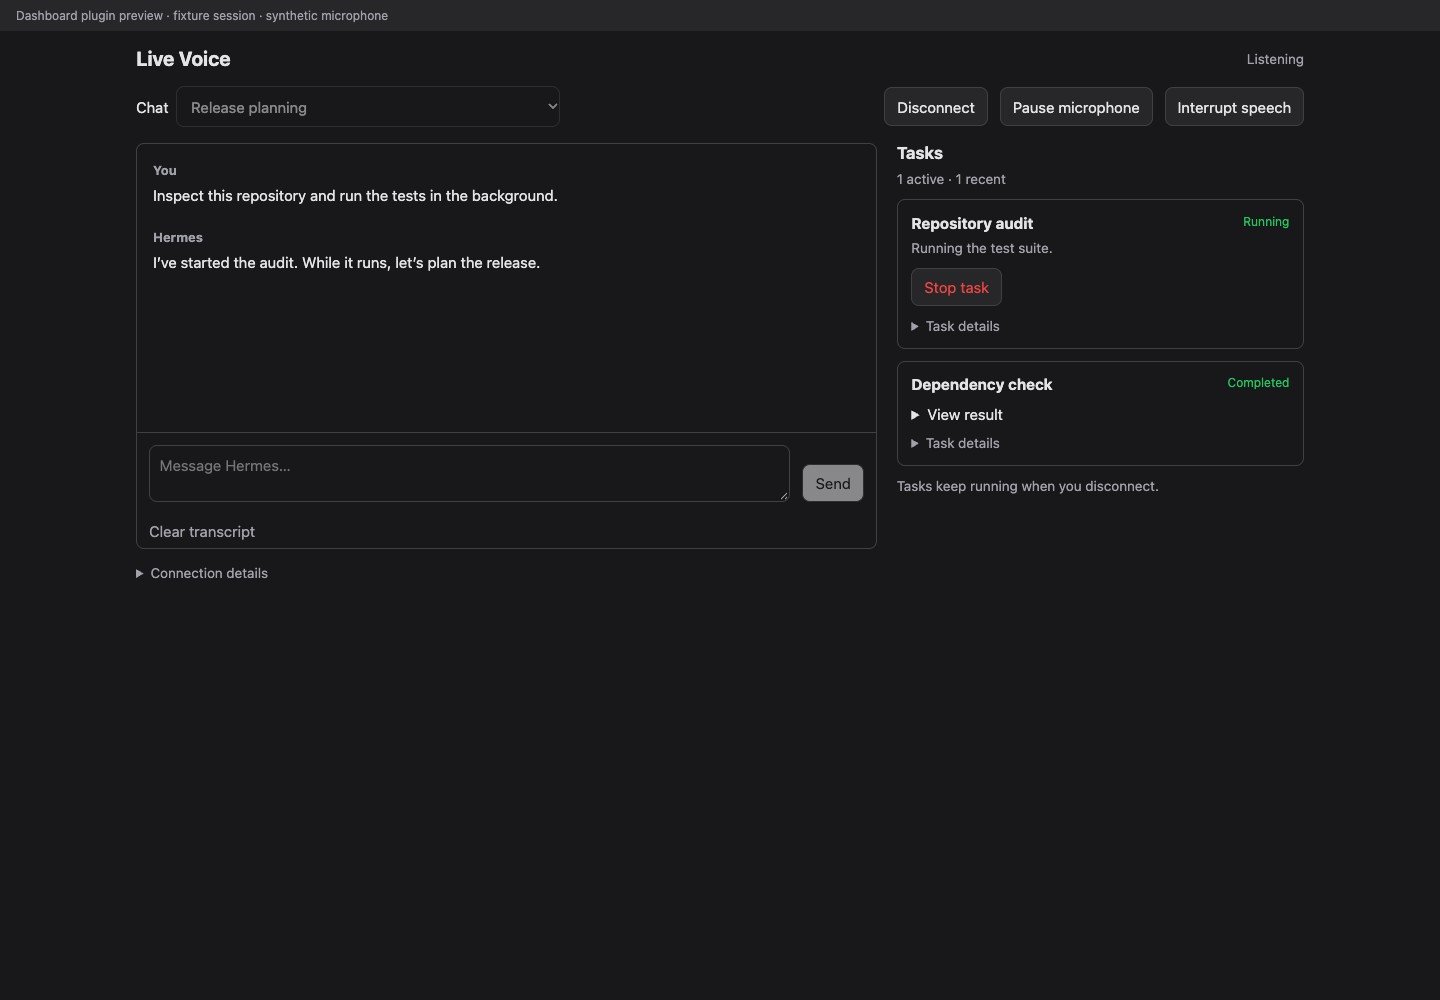
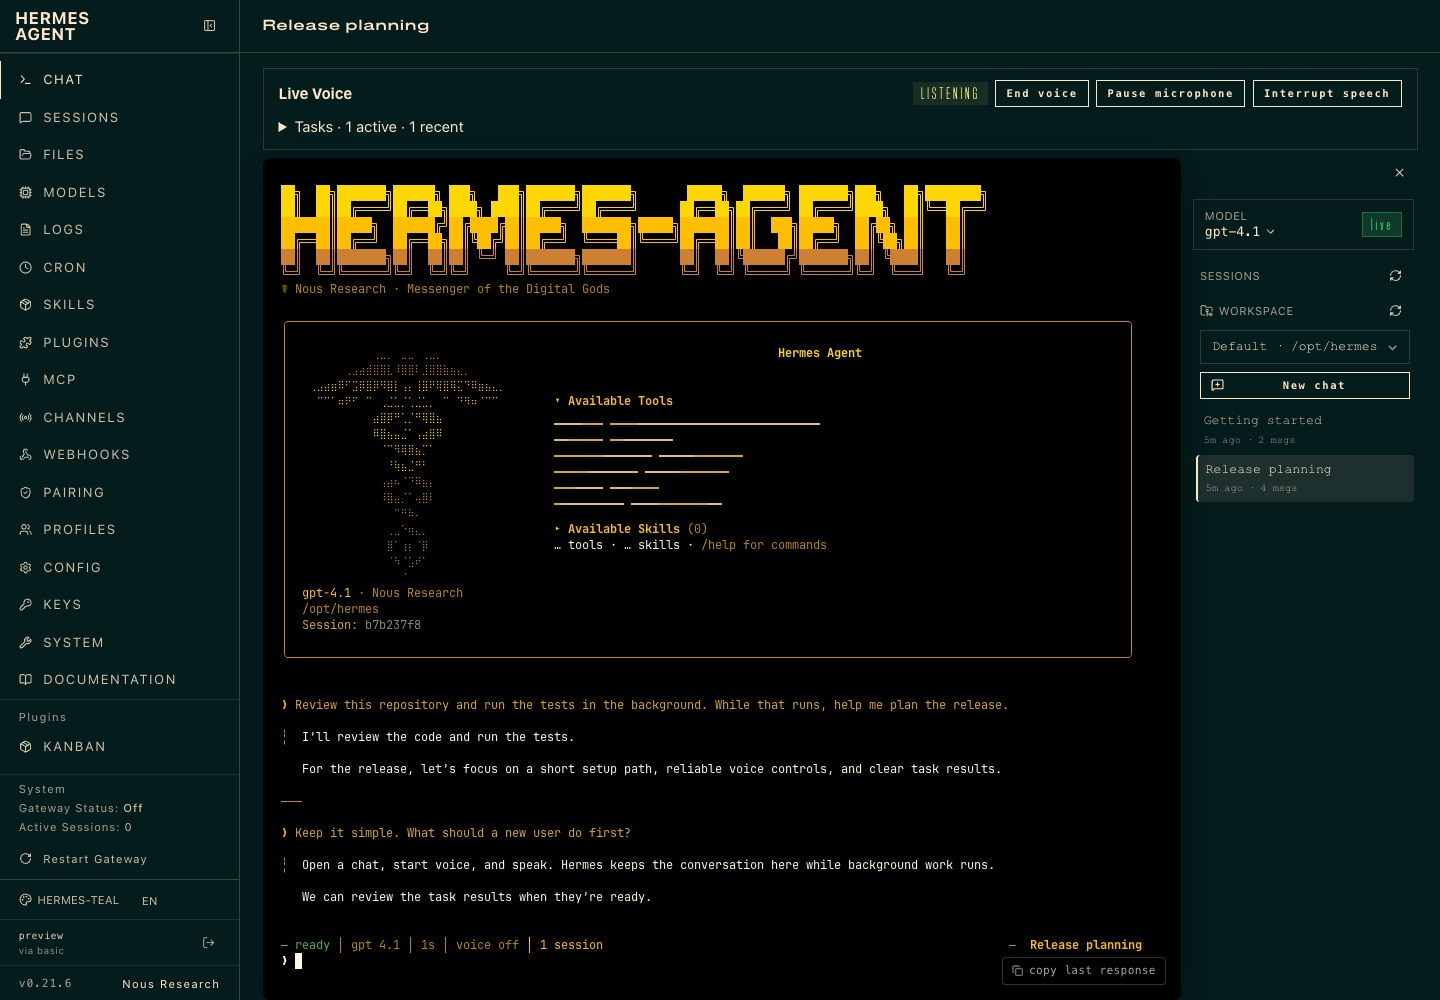
Show the actual Hermes UI and document its supported limits

diff --git a/docs/ui-integration.md b/docs/ui-integration.md
@@ -1,6 +1,6 @@
 # UI Integration
 
-Hermes Live Voice is a gateway and protocol, not one fixed application. The bundled Hermes Dashboard tab is the recommended browser surface; `hermes-live-voice/browser` is the integration API for community/custom UIs; `hermes-live terminal` is the remote/headless text surface.
+Hermes Live Voice is a gateway and protocol, not one fixed application. The bundled controls inside Hermes Dashboard Chat are the supported browser surface; `hermes-live-voice/browser` is the integration API for community/custom UIs; `hermes-live terminal` is the remote/headless text surface.
 
 This documents compatibility with Hermes Agent and community projects, not endorsement by their maintainers.
 
@@ -8,7 +8,7 @@ This documents compatibility with Hermes Agent and community projects, not endor
 
 | Surface | Support | Purpose |
 | --- | --- | --- |
-| Hermes Dashboard + Live Voice plugin | First-class | New/resumed chats, browser audio/text, transcript, durable task inbox, follow-ups, reconnect, notifications, interruption, and exact stop. |
+| Hermes Dashboard + Live Voice plugin | First-class | Voice for the conversation selected in native Chat, browser audio, durable task inbox, reconnect, notifications, interruption, and exact stop. |
 | `hermes-live-voice/browser` | First-class integration API | Vanilla, React, Vue, Svelte, Electron, or mobile-web clients. |
 | `hermes-live terminal` | First-class text control | SSH/headless task supervision, retained results, interruption, and exact stop. |
 
@@ -44,24 +44,15 @@ hermes-live setup
 hermes dashboard
 ```
 
-Choose **Live Voice**. The plugin contributes:
+Open **Chat**, select a saved conversation in Hermes’s native list, and press **Start voice**. Hermes owns the conversation list, terminal transcript, input, navigation, and theme. The plugin contributes only voice controls and a collapsed task panel through the documented `chat:top` slot, with `tab.hidden: true` and Hermes’s own `Card`, `Button`, and `Badge` components. It ships no separate chat page or stylesheet.
 
-- `dashboard/manifest.json` for the `/live-voice` tab;
-- a responsive, theme-aware frontend using the shared browser SDK and worklet;
-- authenticated `/status` and `/live` plugin routes;
-- a sanitized `/conversations` route and saved-chat picker;
-- a server-side WebSocket relay that applies the gateway bearer.
+The Dashboard integration requires Hermes Agent 0.20.0+ with `registerSlot`, authenticated `fetchJSON`, and `buildWsUrl`. Update Hermes if those helpers are missing. The old `/live-voice` URL links to native Chat.
 
-The browser never receives `HERMES_LIVE_AUTH_TOKEN`. The plugin backend revalidates Hermes Dashboard authentication and origin policy, rejects redirects, and keeps the upstream URL and credential out of status responses.
+The web Dashboard does not expose its current unsaved PTY session through the plugin SDK. Select a saved conversation in Hermes’s list before starting voice; the plugin attaches to the documented `/chat?resume=<id>` target. It detaches when that route changes. Reconnect explicitly to enable voice for the newly selected chat. Background work continues.
 
-For a remote gateway, set in the Dashboard server process:
+Voice turns handled by Hermes are persisted in its conversation history. The web Dashboard’s embedded TUI does not expose a plugin API for streaming external turns into its terminal; reopen the conversation to load them. The plugin does not rebuild a transcript or inject text into the PTY. Full native streaming integration would require a new Hermes extension point.
 
-```sh
-HERMES_LIVE_URL=https://voice.example.com
-HERMES_LIVE_AUTH_TOKEN=your-high-entropy-gateway-token
-```
-
-See [Setup](setup.md) for installation and relay details.
+The backend provides authenticated `/status` and `/live` routes and relays the gateway connection. Provider keys and the gateway bearer remain server-side. Browser code uses only the host’s authenticated SDK helpers.
 
 ## Custom Or Community Browser UI
 

diff --git a/README.md b/README.md
@@ -10,7 +10,7 @@ Talk to [Hermes Agent](https://github.com/NousResearch/hermes-agent) while it wo
 
 This is the 1.3 release candidate. Install from `next`; the stable version remains available from `latest`.
 
-You need Hermes Agent 0.18.2+, Node.js 20+ (22 or 24 recommended), and an OpenAI API key with Realtime access.
+You need Hermes Agent 0.20.0+ for the Dashboard UI, Node.js 20+ (22 or 24 recommended), and an OpenAI API key with Realtime access.
 
 ```sh
 npm install --global hermes-live-voice@next
@@ -20,17 +20,17 @@ hermes dashboard
 
 Setup prompts for your key, installs the Live Voice plugin, and starts the gateway. It preserves your configured provider and detects an available hosted key; otherwise it uses OpenAI. Local models are installed only when you explicitly choose local voice.
 
-Open **Live Voice**, choose a new or saved chat, and press **Connect**. Allow microphone access and speak. Automatic turn detection is enabled by default. You can pause the microphone or interrupt a reply without stopping background work.
+Open **Chat**, select a saved conversation in Hermes’s own conversation list, and press **Start voice**. Allow microphone access and speak. Automatic turn detection is enabled by default. You can pause the microphone or interrupt a reply without stopping background work.
 
 Try:
 
 > Inspect this repository and run the tests in the background. While that runs, help me plan the release.
 
-Task cards show progress and retained results. **Stop task** stops that task; disconnecting voice lets it continue.
+Expand **Tasks** to see progress and retained results. **Stop task** stops that task; disconnecting voice lets it continue.
 
-![Live Voice dashboard](assets/live-voice-dashboard.jpg)
+![Live Voice inside Hermes Chat](assets/live-voice-dashboard.jpg)
 
-The screenshot shows the Dashboard plugin with a fixture session; it is not evidence of live provider audio. See [provider testing](docs/live-provider-testing.md) for the verification procedure and current receipts.
+The screenshot shows the actual Hermes Dashboard with its native chat UI, the voice plugin, and fixture data. Audio uses a synthetic microphone; this is not evidence of live provider audio. See [provider testing](docs/live-provider-testing.md) for the verification procedure and current receipts.
 
 ## Providers
 

diff --git a/plugins/hermes-live/after-install.md b/plugins/hermes-live/after-install.md
@@ -1,6 +1,6 @@
 # Hermes Live Voice is installed
 
-The plugin adds the **Live Voice** Dashboard tab, status tool, slash command, and authenticated browser relay. The matching npm package runs the companion gateway.
+The plugin adds **Live Voice** controls to Dashboard Chat, status tool, slash command, and authenticated browser relay. The matching npm package runs the companion gateway.
 
 For the normal setup:
 
@@ -10,7 +10,7 @@ hermes-live setup
 hermes dashboard
 ```
 
-Choose **Live Voice**, then start a new Hermes chat or resume a saved one. The Dashboard stays responsive while delegated tasks run, shows what each task is doing, keeps results in a durable inbox, and supports follow-up work.
+Open **Chat**, select a saved conversation in Hermes’s list, and press **Start voice**. Expand **Tasks** to inspect background work and retained results.
 
 Setup defaults to OpenAI, detects an available hosted key, and keeps an existing provider choice. Local voice requires `hermes-live setup --provider local`; on Apple Silicon that installation downloads Python and models.
 
